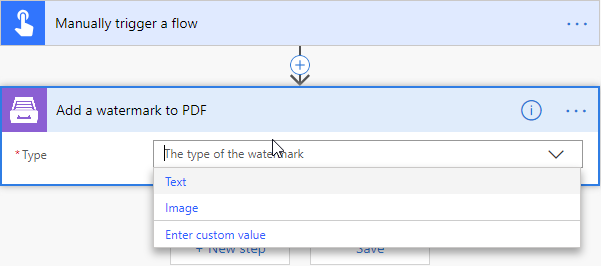
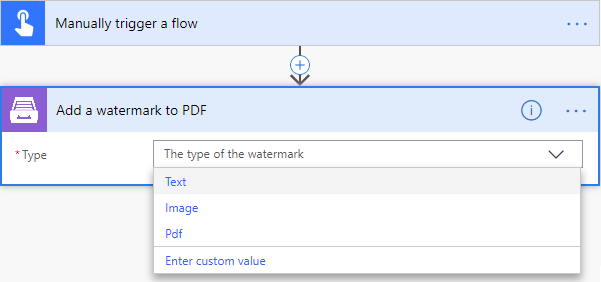
Fixed documentation after review.

Changed region(s): [[0.0, 0.0301, 1.0, 1.0], [0.0899, 0.0602, 0.3295, 0.1203], [0.9584, 0.0602, 0.9884, 0.0902]]

diff --git a/source/flow/actions/document-processing.rst b/source/flow/actions/document-processing.rst
@@ -565,14 +565,14 @@ Note: At this moment options: Header HTML, Footer HTML and Margins are only avai
 Add watermark to PDF
 -------------------
 
-"Add watermark to PDF" is a complex action that includes several operations for adding watermark to your pdf document.
+"Add watermark to PDF" action support a few types of watermarks: Text, Image, PDF.
 
 .. image:: ../../_static/img/flow/documents/add-a-watermark-to-pdf-select-type.png
    :alt: Selection of the watermark type
 
-When you added this action to your Flow, you need to specify initial "Type" parameter - type of watermark: text, image.
+When you added this action to your Flow, you need to pick of those: text, image, pdf.
 
-You can find the documentation for all operations included in "Add watermark to PDF" action below:
+You can find the documentation for all watermark types included in "Add watermark to PDF" action below:
 
 - :ref:`image-watermark-type`
 - :ref:`text-watermark-type`
@@ -623,15 +623,15 @@ Add image watermark to PDF
     *  -  Watermark position
        -  You can select one of the predefined position of watermark on the page. Available preset positions on the document page:
 
-          - 1 - Top Left
-          - 2 - Top Middle
-          - 3 - Top Right
-          - 4 - Middle Left
-          - 5 - Center
-          - 6 - Middle Right
-          - 7 - Bottom Left
-          - 8 - Bottom Middle
-          - 9 - Bottom Right
+          1. Top Left
+          2. Top Middle
+          3. Top Right
+          4. Middle Left
+          5. Center
+          6. Middle Right
+          7. Bottom Left
+          8. Bottom Middle
+          9. Bottom Right
 
           .. image:: ../../_static/img/flow/documents/add-a-watermark-to-pdf-content-positions.png
           
@@ -650,7 +650,7 @@ Add image watermark to PDF
        -  7 
 
     *  -  Pages
-       -  The range of target pages delimeted by ;
+       -  The range of target pages delimeted by ';'. If set then "Start Page" and "End Page" will be ignored.
        -  1;3;5
 
     *  -  Password
@@ -677,15 +677,17 @@ Add image watermark to PDF
 
     *  -  X coordinate
        -  Absolute X coordinate value.
-          If the preset positions (see "Watermark position") do not suit you, then you can set the desired location of the watermark using absolute coordinates
+          If the predefined positions (see "Watermark position") do not suit you, then you can set the desired location of the watermark using absolute coordinates.
           The origin in the bottom left corner. See the picture
 
           .. image:: ../../_static/img/flow/documents/add-a-watermark-to-pdf-coordinates-start.png
 
+          If set - "Watermark position" parameter will be ignored
+
        -  50
 
     *  -  Y coordinate
-       -  Absolute Y coordinate value.
+       -  Absolute Y coordinate value. If set - "Watermark position" parameter will be ignored
        -  50
 
   
@@ -747,15 +749,15 @@ Add text watermark to PDF
     *  -  Watermark position
        -  You can select one of the predefined position of watermark on the page. Available preset positions on the document page:
 
-          - 1 - Top Left
-          - 2 - Top Middle
-          - 3 - Top Right
-          - 4 - Middle Left
-          - 5 - Center
-          - 6 - Middle Right
-          - 7 - Bottom Left
-          - 8 - Bottom Middle
-          - 9 - Bottom Right
+          1. Top Left
+          2. Top Middle
+          3. Top Right
+          4. Middle Left
+          5. Center
+          6. Middle Right
+          7. Bottom Left
+          8. Bottom Middle
+          9. Bottom Right
 
           .. image:: ../../_static/img/flow/documents/add-a-watermark-to-pdf-content-positions.png
           
@@ -774,7 +776,7 @@ Add text watermark to PDF
        -  7 
 
     *  -  Pages
-       -  The range of target pages delimeted by ;
+       -  The range of target pages delimeted by ';'. If set then "Start Page" and "End Page" will be ignored.
        -  1;3;5
 
     *  -  Password
@@ -787,15 +789,17 @@ Add text watermark to PDF
 
     *  -  X coordinate
        -  Absolute X coordinate value.
-          If the preset positions (see "Watermark position") do not suit you, then you can set the desired location of the watermark using absolute coordinates
+          If the predefined positions (see "Watermark position") do not suit you, then you can set the desired location of the watermark using absolute coordinates.
           The origin in the bottom left corner. See the picture
 
           .. image:: ../../_static/img/flow/documents/add-a-watermark-to-pdf-coordinates-start.png
 
+          If set - "Watermark position" parameter will be ignored
+
        -  50
 
     *  -  Y coordinate
-       -  Absolute Y coordinate value.
+       -  Absolute Y coordinate value. If set - "Watermark position" parameter will be ignored
        -  50
 
 
@@ -838,9 +842,9 @@ Add pdf watermark to PDF
 
           You may use `this link <../../_static/files/flow/how-tos/file-to-split.pdf>`_ to download a sample 10 pages PDF file.
 
-    *  -  Overlay pdf file content
-       -  The content of a file that will be overlayed
-       -  You may use `this link <../../_static/files/flow/how-tos/overlay.pdf>`_ to download a sample 10 pages PDF file.
+    *  -  PDF watermark document
+       -  Raw content of the PDF file that will be used as a watermark.
+       -  You may use `this link <../../_static/files/flow/how-tos/overlay.pdf>`_ to download a sample PDF file.
 
     *  -  Overlay position
        -  You can select one of the predefined layer for overlay rendering position. Available preset positions:
@@ -861,8 +865,8 @@ Add pdf watermark to PDF
        -  Index of the last page to adding watermark (inclusive). By default will use the last page of the source document.
        -  7 
 
-    *  -  Page Range
-       -  The range of target pages delimeted by ;
+    *  -  Pages
+       -  The range of target pages delimeted by ';'. If set then "Start Page" and "End Page" will be ignored.
        -  1;3;5
 
 .. rubric:: Example
